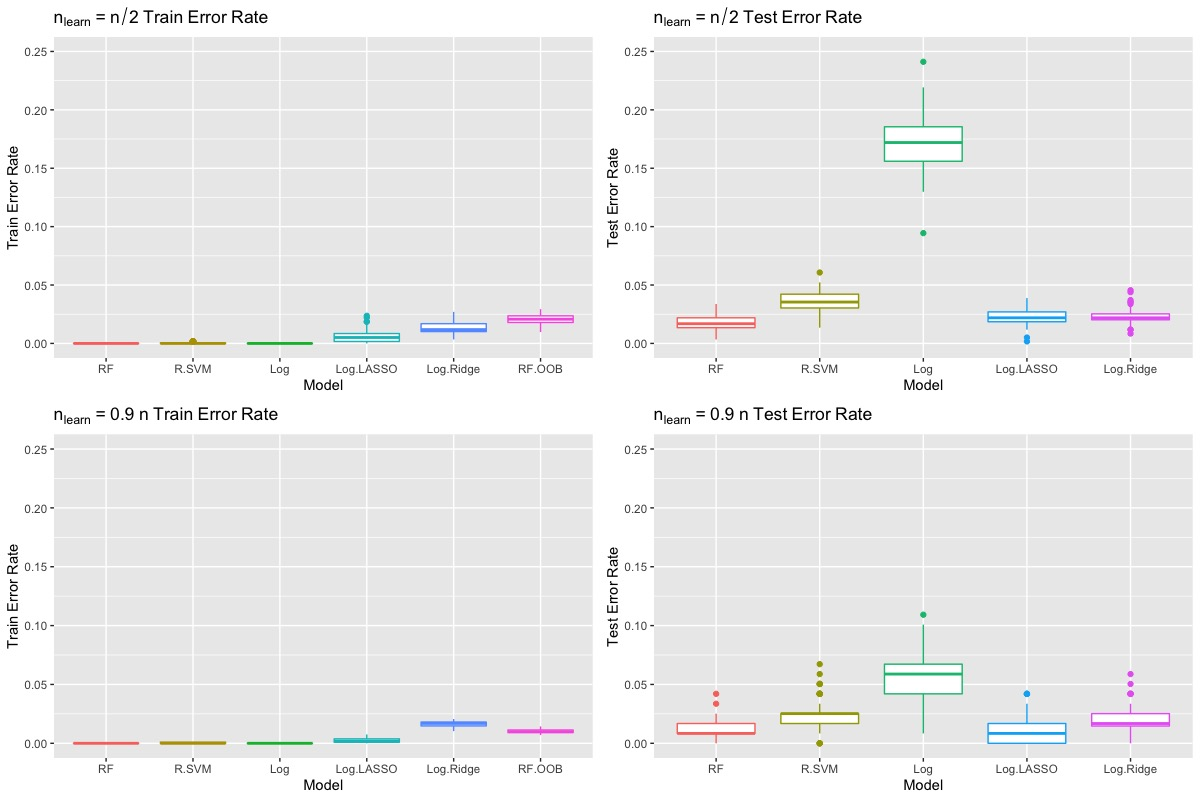
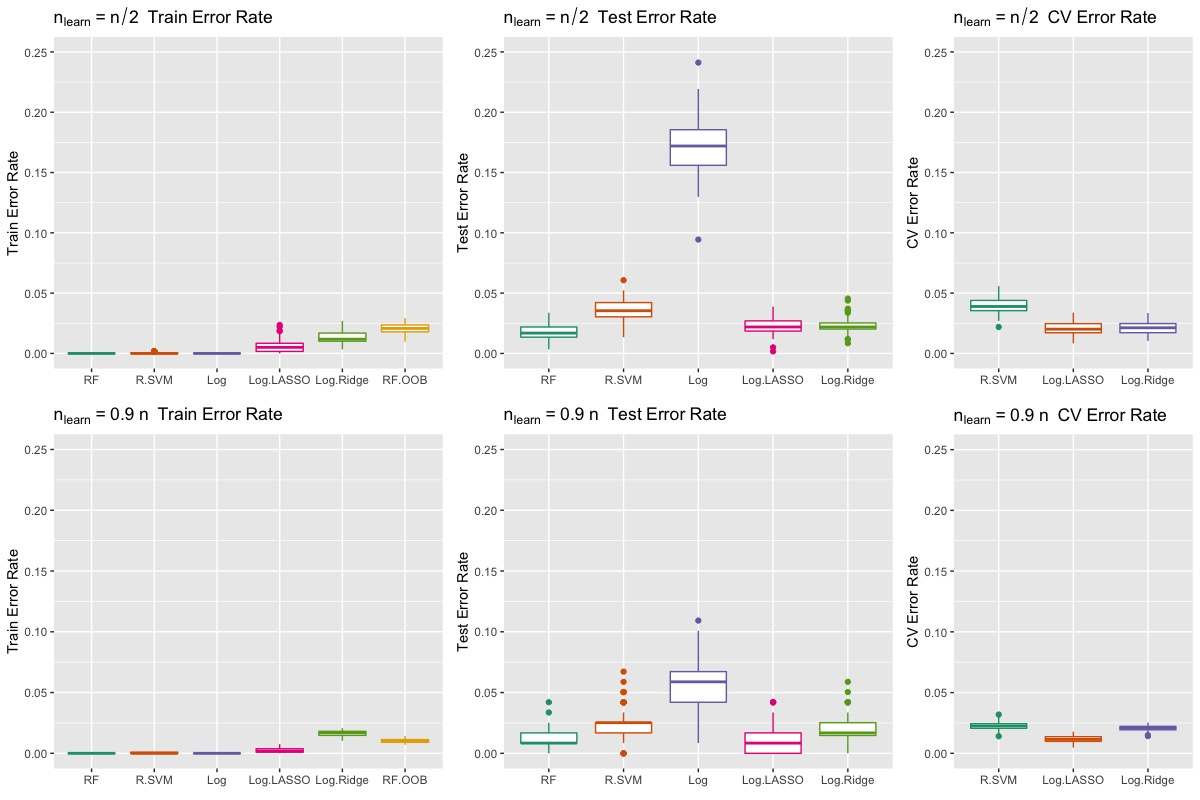
the forth revision

diff --git a/README.md b/README.md
@@ -8,7 +8,7 @@ Jan 3rd, 2020
 
 ## Brief Summary
 
-This is the brief summary of this project. If you are curious aobut details and code, please check the linked analysis report and R code.
+This is the brief summary of this project. If you are curious aobut details and code, please check the linked analysis report and R code above.
 
 Random Forest is the best algorithm for this dataset. Regardless of the train data size, Random Forest marks the lowest test error rate with the shortest training time. In addition, increasing the size of train data improves the test error rate for Random Forest. Let me explain why Random Forest is the best.
 
@@ -35,21 +35,17 @@ In addition to the misclassification error rate comparison, we evaluate whether 
 | Size of train data | 0.5n           | 0.9n           |
 | Size of test data  | 0.5n           | 0.1n           |
 
-### n_learn = 0.5n Performance Comparison
+### Performance Comparison
 
-![0.5n Comparison](https://drive.google.com/uc?export=view&id=1z_rspWuBU4pERNZziydULyEz1-jJlqox)
+![Performance Comparison](1.jpeg)
 
 Given the size of train data = 0.5n, Random Forest(RF) is the best, and logistic regression the worst because it's overfitted. Cross validation error rates are good estimates of test error rates. Interestingly, RF Out-Of-Bag error in train error rates is also a good estimate of test error rate.
 
 R-SVM takes the longest time to cross validate for this dataset although the test error rate is the second worst, and RF is the fastest one with the best test error rate.
 
-### n_learn = 0.9n Performance Comparison
-
-![0.9n Comparison](https://drive.google.com/uc?export=view&id=1O4uN-9wbDY2Nt4Hak-QYYXDUMZ_DrRB0)
-
 Like n_learn = 0.5n, there are similar patterns in n_learn = 0.9n. However, overfitting in n_learn = 0.9n is less severe than n_learn = 0.5n. That is, increasing the size of train data improves overfiting and test misclassification error rates.
 
-When n_learn = 0.9n, it takes time to cross validate and fit three time as much as when n_learn = 0.5n. Increasing the size of train data from 0.5n to 0.9n improves test error rates in most algorithm.
+When n_learn = 0.9n, it however takes time to cross validate and fit three time as much as when n_learn = 0.5n. Increasing the size of train data from 0.5n to 0.9n improves test error rates in most algorithm.
 
 ### Trade Off Between Time and Performance
 
@@ -60,7 +56,7 @@ When n_learn = 0.9n, it takes time to cross validate and fit three time as much 
 | SVM           | m = 1.4, p-value = 9e-14 < 0.05      |
 | Random Forest | m = 0.6, p-value = 2e-7 < 0.05       |
 
-0.9n takes time to cross validate and fit three times as much as 0.5n.Test error rates are also improved except ridge regression by A/B testing on two different train data size. As the p-value of two sample test is 0.14, which is greater than 0.05, we don't need to increase the size of train data if we use ridge logistic regression.
+0.9n takes time to cross validate and fit three times as much as 0.5n. Test error rates are also improved except ridge regression by A/B testing on two different train data size. As the p-value of two sample test is 0.14, which is greater than 0.05, we don't need to increase the size of train data if we use ridge logistic regression.
 
 ### Variable Importance
 
@@ -80,6 +76,6 @@ As n_learn increases upto 90 percentage of n, time to cross-validate and to fit 
 
 The best method for this dataset is Random Forest in terms of test error rate and time. The larger n_learn improves test error rates except for ridge regression. R-SVM is the worst method for this dataset
 
-[PDF](https://drive.google.com/open?id=1iybkj00lmuhgsGshC2U2xrCKo7obpWWR)
+[Analysis Report](https://drive.google.com/open?id=1iybkj00lmuhgsGshC2U2xrCKo7obpWWR)
 
 [R Code](https://drive.google.com/open?id=1mSzBeKDjYWgE_lmkgLCyfMOiw356wTCK)
